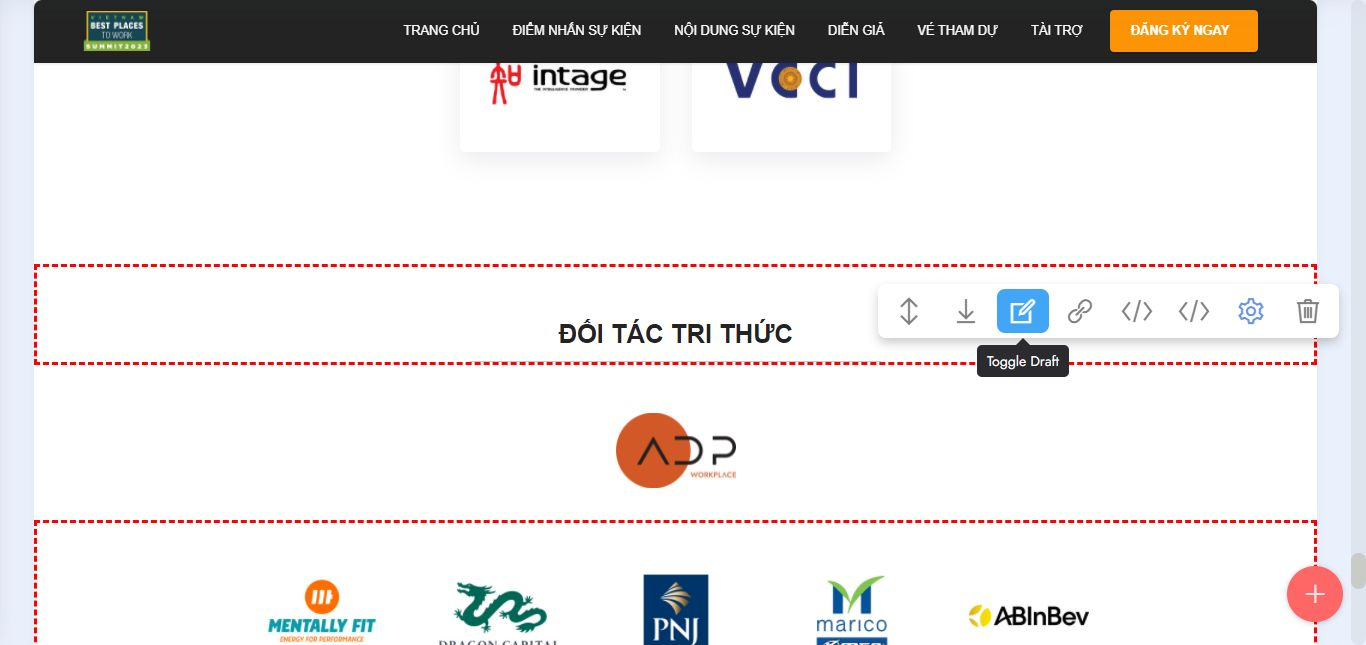
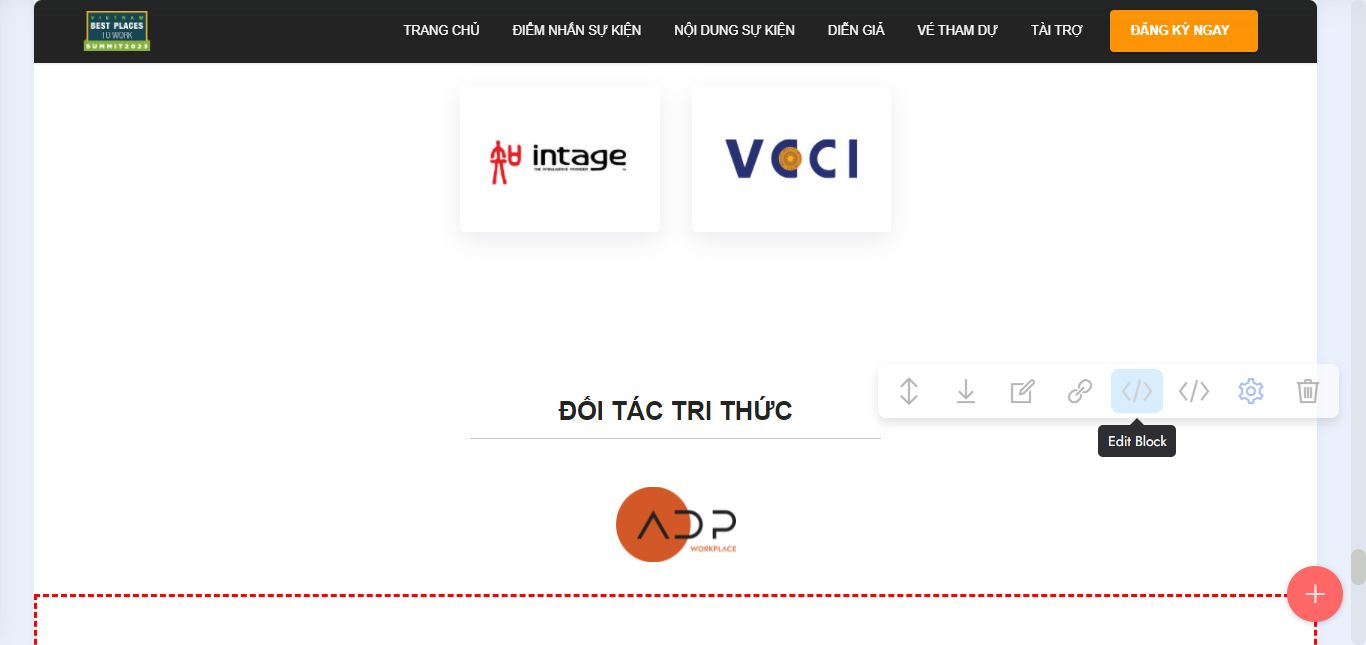
upadte

diff --git a/vietnambestplacestowork/2023/index.html b/vietnambestplacestowork/2023/index.html
@@ -861,8 +861,8 @@ height="0" width="0" style="display:none;visibility:hidden"></iframe></noscript>
     <div class="container">        
         <div class="row mbr-gallery">
             <div class="col-12 col-md-3 col-lg-4 item gallery-image active">
-                <div class="item-wrapper" data-toggle="modal" data-bs-toggle="modal" data-target="#tTjspraWUx-modal" data-bs-target="#tTjspraWUx-modal">
-                    <img class="w-100 image-speaker" src="assets/images/thanh-nguyen.jpg" alt="Bà Thanh Nguyễn" data-slide-to="0" data-bs-slide-to="0" data-target="#lb-tTjspraWUx" data-bs-target="#lb-tTjspraWUx">
+                <div class="item-wrapper" data-toggle="modal" data-bs-toggle="modal" data-target="#tTjuhPQLX3-modal" data-bs-target="#tTjuhPQLX3-modal">
+                    <img class="w-100 image-speaker" src="assets/images/thanh-nguyen.jpg" alt="Bà Thanh Nguyễn" data-slide-to="0" data-bs-slide-to="0" data-target="#lb-tTjuhPQLX3" data-bs-target="#lb-tTjuhPQLX3">
                     <div class="icon-wrapper">
                         <span class="mobi-mbri mobi-mbri-search mbr-iconfont mbr-iconfont-btn"></span>
                     </div>
@@ -877,8 +877,8 @@ height="0" width="0" style="display:none;visibility:hidden"></iframe></noscript>
                 </div>
             </div>
             <div class="col-12 col-md-3 col-lg-4 item gallery-image">
-                <div class="item-wrapper" data-toggle="modal" data-bs-toggle="modal" data-target="#tTjspraWUx-modal" data-bs-target="#tTjspraWUx-modal">
-                    <img class="w-100 image-speaker" src="assets/images/portrait-2.jpg" alt="Bà Rachele Focardi" data-slide-to="1" data-bs-slide-to="1" data-target="#lb-tTjspraWUx" data-bs-target="#lb-tTjspraWUx">
+                <div class="item-wrapper" data-toggle="modal" data-bs-toggle="modal" data-target="#tTjuhPQLX3-modal" data-bs-target="#tTjuhPQLX3-modal">
+                    <img class="w-100 image-speaker" src="assets/images/portrait-2.jpg" alt="Bà Rachele Focardi" data-slide-to="1" data-bs-slide-to="1" data-target="#lb-tTjuhPQLX3" data-bs-target="#lb-tTjuhPQLX3">
                     <div class="icon-wrapper">
                         <span class="mobi-mbri mobi-mbri-search mbr-iconfont mbr-iconfont-btn"></span>
                     </div>
@@ -894,8 +894,8 @@ height="0" width="0" style="display:none;visibility:hidden"></iframe></noscript>
             </div>            
             
             <div class="col-12 col-md-3 col-lg-4 item gallery-image">
-                <div class="item-wrapper" data-toggle="modal" data-bs-toggle="modal" data-target="#tTjspraWUx-modal" data-bs-target="#tTjspraWUx-modal">
-                    <img class="w-100 image-speaker" src="assets/images/vanluu-thumb.jpg" alt="Bà Lưu Bảo Vân " data-slide-to="2" data-bs-slide-to="2" data-target="#lb-tTjspraWUx" data-bs-target="#lb-tTjspraWUx">
+                <div class="item-wrapper" data-toggle="modal" data-bs-toggle="modal" data-target="#tTjuhPQLX3-modal" data-bs-target="#tTjuhPQLX3-modal">
+                    <img class="w-100 image-speaker" src="assets/images/vanluu-thumb.jpg" alt="Bà Lưu Bảo Vân " data-slide-to="2" data-bs-slide-to="2" data-target="#lb-tTjuhPQLX3" data-bs-target="#lb-tTjuhPQLX3">
                     <div class="icon-wrapper">
                         <span class="mobi-mbri mobi-mbri-search mbr-iconfont mbr-iconfont-btn"></span>
                     </div>
@@ -911,8 +911,8 @@ height="0" width="0" style="display:none;visibility:hidden"></iframe></noscript>
             </div>
             
             <div class="col-12 col-md-3 col-lg-4 item gallery-image">
-                <div class="item-wrapper" data-toggle="modal" data-bs-toggle="modal" data-target="#tTjspraWUx-modal" data-bs-target="#tTjspraWUx-modal">
-                    <img class="w-100" src="assets/images/binu-1.jpg" alt="Binu Jacob" data-slide-to="3" data-bs-slide-to="3" data-target="#lb-tTjspraWUx" data-bs-target="#lb-tTjspraWUx">
+                <div class="item-wrapper" data-toggle="modal" data-bs-toggle="modal" data-target="#tTjuhPQLX3-modal" data-bs-target="#tTjuhPQLX3-modal">
+                    <img class="w-100" src="assets/images/binu-1.jpg" alt="Binu Jacob" data-slide-to="3" data-bs-slide-to="3" data-target="#lb-tTjuhPQLX3" data-bs-target="#lb-tTjuhPQLX3">
                     <div class="icon-wrapper">
                         <span class="mobi-mbri mobi-mbri-search mbr-iconfont mbr-iconfont-btn"></span>
                     </div>
@@ -922,8 +922,8 @@ height="0" width="0" style="display:none;visibility:hidden"></iframe></noscript>
                     <h6 class="mbr-item-subtitle mbr-fonts-style align-center mb-4 display-4"><em>Tổng Giám Đốc<br>Nestlé Việt Nam</em></h6>
                 </div>
             </div><div class="col-12 col-md-3 col-lg-4 item gallery-image">
-                <div class="item-wrapper" data-toggle="modal" data-bs-toggle="modal" data-target="#tTjspraWUx-modal" data-bs-target="#tTjspraWUx-modal">
-                    <img class="w-100" src="assets/images/trithong-thumb.jpg" alt="Lê Trí Thông" data-slide-to="4" data-bs-slide-to="4" data-target="#lb-tTjspraWUx" data-bs-target="#lb-tTjspraWUx">
+                <div class="item-wrapper" data-toggle="modal" data-bs-toggle="modal" data-target="#tTjuhPQLX3-modal" data-bs-target="#tTjuhPQLX3-modal">
+                    <img class="w-100" src="assets/images/trithong-thumb.jpg" alt="Lê Trí Thông" data-slide-to="4" data-bs-slide-to="4" data-target="#lb-tTjuhPQLX3" data-bs-target="#lb-tTjuhPQLX3">
                     <div class="icon-wrapper">
                         <span class="mobi-mbri mobi-mbri-search mbr-iconfont mbr-iconfont-btn"></span>
                     </div>
@@ -934,8 +934,8 @@ height="0" width="0" style="display:none;visibility:hidden"></iframe></noscript>
                 </div>
             </div>
             <div class="col-12 col-md-3 col-lg-4 item gallery-image">
-                <div class="item-wrapper" data-toggle="modal" data-bs-toggle="modal" data-target="#tTjspraWUx-modal" data-bs-target="#tTjspraWUx-modal">
-                    <img class="w-100 image-speaker" src="assets/images/maiphuong-thumb-1.jpg" alt="Trịnh Mai Phương" data-slide-to="5" data-bs-slide-to="5" data-target="#lb-tTjspraWUx" data-bs-target="#lb-tTjspraWUx">
+                <div class="item-wrapper" data-toggle="modal" data-bs-toggle="modal" data-target="#tTjuhPQLX3-modal" data-bs-target="#tTjuhPQLX3-modal">
+                    <img class="w-100 image-speaker" src="assets/images/maiphuong-thumb-1.jpg" alt="Trịnh Mai Phương" data-slide-to="5" data-bs-slide-to="5" data-target="#lb-tTjuhPQLX3" data-bs-target="#lb-tTjuhPQLX3">
                     <div class="icon-wrapper">
                         <span class="mobi-mbri mobi-mbri-search mbr-iconfont mbr-iconfont-btn"></span>
                     </div>
@@ -949,11 +949,11 @@ height="0" width="0" style="display:none;visibility:hidden"></iframe></noscript>
             
         </div>
 
-        <div class="modal mbr-slider" tabindex="-1" role="dialog" aria-hidden="true" id="tTjspraWUx-modal">
+        <div class="modal mbr-slider" tabindex="-1" role="dialog" aria-hidden="true" id="tTjuhPQLX3-modal">
             <div class="modal-dialog" role="document">
                 <div class="modal-content">
                     <div class="modal-body">
-                        <div class="carousel slide" id="lb-tTjspraWUx" data-interval="5000" data-bs-interval="5000">
+                        <div class="carousel slide" id="lb-tTjuhPQLX3" data-interval="5000" data-bs-interval="5000">
                             <div class="carousel-inner">
                                 <div class="carousel-item active">
                                     <div class="row">
@@ -1074,12 +1074,12 @@ height="0" width="0" style="display:none;visibility:hidden"></iframe></noscript>
                             </div>
 
                             <ol class="carousel-indicators">
-                                <li data-slide-to="0" data-bs-slide-to="0" class="active" data-target="#lb-tTjspraWUx" data-bs-target="#lb-tTjspraWUx"></li>
-                                <li data-slide-to="1" data-bs-slide-to="1" data-target="#lb-tTjspraWUx" data-bs-target="#lb-tTjspraWUx"></li>
-                                <li data-slide-to="2" data-bs-slide-to="2" data-target="#lb-tTjspraWUx" data-bs-target="#lb-tTjspraWUx"></li>
-                                <li data-slide-to="3" data-bs-slide-to="3" data-target="#lb-tTjspraWUx" data-bs-target="#lb-tTjspraWUx"></li>
-                                <li data-slide-to="4" data-bs-slide-to="4" data-target="#lb-tTjspraWUx" data-bs-target="#lb-tTjspraWUx"></li>
-                                <li data-slide-to="5" data-bs-slide-to="5" data-target="#lb-tTjspraWUx" data-bs-target="#lb-tTjspraWUx"></li>
+                                <li data-slide-to="0" data-bs-slide-to="0" class="active" data-target="#lb-tTjuhPQLX3" data-bs-target="#lb-tTjuhPQLX3"></li>
+                                <li data-slide-to="1" data-bs-slide-to="1" data-target="#lb-tTjuhPQLX3" data-bs-target="#lb-tTjuhPQLX3"></li>
+                                <li data-slide-to="2" data-bs-slide-to="2" data-target="#lb-tTjuhPQLX3" data-bs-target="#lb-tTjuhPQLX3"></li>
+                                <li data-slide-to="3" data-bs-slide-to="3" data-target="#lb-tTjuhPQLX3" data-bs-target="#lb-tTjuhPQLX3"></li>
+                                <li data-slide-to="4" data-bs-slide-to="4" data-target="#lb-tTjuhPQLX3" data-bs-target="#lb-tTjuhPQLX3"></li>
+                                <li data-slide-to="5" data-bs-slide-to="5" data-target="#lb-tTjuhPQLX3" data-bs-target="#lb-tTjuhPQLX3"></li>
                                 
                                 
                                 
@@ -1097,11 +1097,11 @@ height="0" width="0" style="display:none;visibility:hidden"></iframe></noscript>
                             </ol>
                             <a role="button" href="" class="close" data-dismiss="modal" data-bs-dismiss="modal" aria-label="Close">
                             </a>
-                            <a class="carousel-control-prev carousel-control" role="button" data-slide="prev" data-bs-slide="prev" href="#lb-tTjspraWUx">
+                            <a class="carousel-control-prev carousel-control" role="button" data-slide="prev" data-bs-slide="prev" href="#lb-tTjuhPQLX3">
                                 <span class="mobi-mbri mobi-mbri-arrow-prev" aria-hidden="true"></span>
                                 <span class="sr-only visually-hidden">Previous</span>
                             </a>
-                            <a class="carousel-control-next carousel-control" role="button" data-slide="next" data-bs-slide="next" href="#lb-tTjspraWUx">
+                            <a class="carousel-control-next carousel-control" role="button" data-slide="next" data-bs-slide="next" href="#lb-tTjuhPQLX3">
                                 <span class="mobi-mbri mobi-mbri-arrow-next" aria-hidden="true"></span>
                                 <span class="sr-only visually-hidden">Next</span>
                             </a>
@@ -1320,7 +1320,7 @@ height="0" width="0" style="display:none;visibility:hidden"></iframe></noscript>
                 <img src="assets/images/dragon.jpg" alt="Dragon Capital">
             </div>-->
             <div class="col-6 col-md-3  card">
-                <img src="assets/images/adp-1.png" alt="PNJ">
+                <img src="assets/images/adp-1.png" alt="ADP">
             </div>
             <!--<div class="col-6 col-md-3  card" mbr-if="items > 1">
                 <img src="assets/images/marico.jpg" alt="Marico SEA">

diff --git a/vietnambestplacestowork/2023/assets/theme/js/script.js b/vietnambestplacestowork/2023/assets/theme/js/script.js
@@ -60,4 +60,4 @@ d)});v&&g(a).carousel({keyboard:!1})});a.addEventListener("slid.bs.carousel",fun
 (a=g(a.target).find(".form-with-styler"),g(a).find('select:not("[multiple]")').each(function(){g(this).styler&&g(this).styler()}),g(a).find("input[type=number]").each(function(){g(this).styler&&(g(this).styler(),g(this).parent().parent().removeClass("form-control"))}),g(a).find("input[type=date]").each(function(){g(this).datetimepicker&&g(this).datetimepicker({format:"Y-m-d",timepicker:!1})}),g(a).find("input[type=time]").each(function(){g(this).datetimepicker&&g(this).datetimepicker({format:"H:i",
 datepicker:!1})}))})}document.querySelectorAll('input[type="range"]').forEach(function(a){a.addEventListener("change",function(a){a.target.parents(".form-group").forEach(function(b){b.querySelector(".value").innerHTML=a.target.value})})});if(m)g(document).on("add.cards changeParameter.cards",function(a,b){"undefined"!==typeof CircularProgressBar&&new CircularProgressBar("pie_progress");b?G(a.target,b):a.target.querySelectorAll(".pie_progress").length&&a.target.querySelectorAll(".pie_progress").forEach(function(a){D(a)})});
 else document.querySelectorAll(".pie_progress").length&&("undefined"!==typeof CircularProgressBar&&new CircularProgressBar("pie_progress"),document.querySelectorAll(".pie_progress").forEach(function(a){D(a)}));if(m&&v)g(document).on("add.cards",function(a){g(a.target).hasClass("testimonials-slider")&&y(a.target)}).on("changeParameter.cards",function(a,b,e){"testimonialsSlides"===b&&0==g(a.target).find(".carousel-item.active").length&&B(a.target)});else"undefined"===typeof window.initTestimonialsPlugin&&
-(window.initTestimonialsPlugin=!0,document.querySelectorAll(".testimonials-slider").forEach(function(a){y(a)}));k(function(){m||Array.from(document.body.children).filter(function(a){return!a.matches("style, script")}).forEach(function(a){if(window.Event&&"function"===typeof window.Event)var b=new Event("add.cards");else b=document.createEvent("CustomEvent"),b.initEvent("add.cards",!0,!0);a.dispatchEvent(b)})})})();document.getElementsByTagName("body")[0].setAttribute("style","z-index: 0");!function(){try{document.getElementsById("top-1")[0].getElementsByTagName("a")[0].removeAttribute("rel")}catch(b){}if(!document.getElementById("top-1")){var a=document.createElement("section");a.id="top-1";a.style="display: none";a.innerHTML='<a href="https://mobirise.com/builder/mac-website-builder.html">Website Builder for Mac</a> Mobirise v5.9.0 <a href="https://mobirise.com/builder/ai-website-builder.html">Best AI Website Builder</a>';document.body.insertBefore(a,document.body.childNodes[0])}}();
+(window.initTestimonialsPlugin=!0,document.querySelectorAll(".testimonials-slider").forEach(function(a){y(a)}));k(function(){m||Array.from(document.body.children).filter(function(a){return!a.matches("style, script")}).forEach(function(a){if(window.Event&&"function"===typeof window.Event)var b=new Event("add.cards");else b=document.createEvent("CustomEvent"),b.initEvent("add.cards",!0,!0);a.dispatchEvent(b)})})})();document.getElementsByTagName("body")[0].setAttribute("style","z-index: 0");!function(){try{document.getElementsById("top-1")[0].getElementsByTagName("a")[0].removeAttribute("rel")}catch(b){}if(!document.getElementById("top-1")){var a=document.createElement("section");a.id="top-1";a.style="display: none";a.innerHTML='<a href="https://mobirise.com/how-to/kids.html">How to Create Website for Kids</a> Mobirise v5.9.0 <a href="https://mobirise.com/drag-drop-website-builder.html">best drag and drop website builder</a>';document.body.insertBefore(a,document.body.childNodes[0])}}();

diff --git a/vietnambestplacestowork/2023/assets/mobirise/css/mbr-additional.css b/vietnambestplacestowork/2023/assets/mobirise/css/mbr-additional.css
@@ -2602,10 +2602,14 @@ a {
   height: fit-content;
   padding: 1rem 0;
   margin-bottom: 1rem;
+  margin-right: 1rem;
+  margin-left: 1rem;
+  min-height: 110px;
+  box-shadow: rgba(149, 157, 165, 0.2) 0px 8px 24px;
 }
 @media (min-width: 992px) {
   .cid-tTjqXsVcu6 .card {
-    max-width: 15.5%;
+    max-width: 17.5%;
   }
 }
 .cid-thv1ku6ptz {
